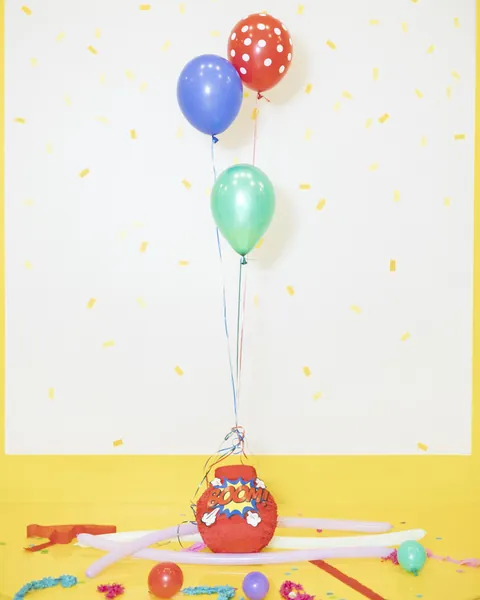
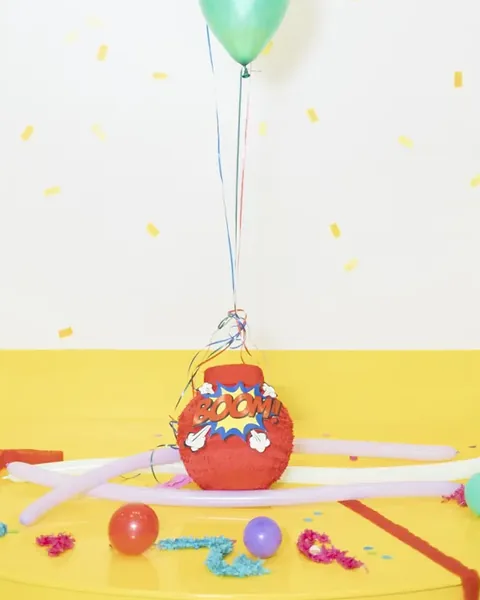
feat: polish portfolio covers and lightbox
- tighter covers for the BOOM and número 1 piñatas so the piñata fills the tile
- lightbox shows the thumb instantly and sharpens when the full photo loads
- soft open animation, slide on next/previous, Home/End keys, larger angle thumbs
- staggered tile reveal, caption highlight on hover/focus, no scrollbar jump

Claude-Session: https://claude.ai/code/session_01P3dCei7Fb7TbLtEwh3wBFV

diff --git a/js/gallery.js b/js/gallery.js
@@ -29,6 +29,7 @@
   const altOf = el => (el.matches('button') ? el.querySelector('img').alt : el.dataset.alt);
 
   let index = 0;
+  let loadToken = 0;
 
   function renderThumbs(s) {
     thumbs.replaceChildren();
@@ -46,8 +47,8 @@
       const im = document.createElement('img');
       im.src = target.el.dataset.thumb;
       im.alt = '';
-      im.width = 44;
-      im.height = 55;
+      im.width = 52;
+      im.height = 65;
       b.appendChild(im);
       b.addEventListener('click', () => show(s.first + i));
       li.appendChild(b);
@@ -56,13 +57,32 @@
     thumbs.setAttribute('aria-label', t('lightbox.group'));
   }
 
-  function show(i) {
+  // dir: 1 = next, -1 = previous, 0 = no slide (opening, thumb click, language change)
+  function show(i, dir = 0) {
     index = (i + slides.length) % slides.length;
     const s = slides[index];
-    img.src = s.el.dataset.full;
+    const token = ++loadToken;
+    const full = s.el.dataset.full;
     img.width = s.el.dataset.fullW;
     img.height = s.el.dataset.fullH;
     img.alt = altOf(s.el);
+    if (img.getAttribute('src') !== full) {
+      // show the (already small) thumb at once, swap in the full photo when it is ready
+      img.classList.add('is-loading');
+      img.src = s.el.dataset.thumb;
+      const big = new Image();
+      big.onload = big.onerror = () => {
+        if (token !== loadToken) return; // the user already moved on
+        img.src = full;
+        img.classList.remove('is-loading');
+      };
+      big.src = full;
+    }
+    img.classList.remove('slide-next', 'slide-prev');
+    if (dir) {
+      void img.offsetWidth; // restart the animation
+      img.classList.add(dir > 0 ? 'slide-next' : 'slide-prev');
+    }
     title.textContent = s.work.querySelector('figcaption').textContent;
     count.textContent = s.size > 1 ? `${s.pos + 1} / ${s.size}` : '';
     renderThumbs(s);
@@ -78,15 +98,19 @@
     document.dispatchEvent(new CustomEvent('pinata:toplayer', { detail: { host: dialog } }));
   }
 
-  works.forEach(work => work.querySelector('.work__open').addEventListener('click', () => open(firstOf.get(work))));
+  works.forEach(work => {
+    const btn = work.querySelector('.work__open');
+    btn.setAttribute('aria-haspopup', 'dialog');
+    btn.addEventListener('click', () => open(firstOf.get(work)));
+  });
   dialog.addEventListener('close', () => {
     root.classList.remove('lightbox-open');
     document.dispatchEvent(new CustomEvent('pinata:toplayer', { detail: { host: null } }));
   });
 
   dialog.querySelector('.lightbox__close').addEventListener('click', () => dialog.close());
-  dialog.querySelector('.lightbox__prev').addEventListener('click', () => show(index - 1));
-  dialog.querySelector('.lightbox__next').addEventListener('click', () => show(index + 1));
+  dialog.querySelector('.lightbox__prev').addEventListener('click', () => show(index - 1, -1));
+  dialog.querySelector('.lightbox__next').addEventListener('click', () => show(index + 1, 1));
 
   // click on the dark backdrop (outside the photo and buttons) closes
   dialog.addEventListener('click', e => {
@@ -95,8 +119,10 @@
   });
 
   dialog.addEventListener('keydown', e => {
-    if (e.key === 'ArrowLeft') { e.preventDefault(); show(index - 1); }
-    if (e.key === 'ArrowRight') { e.preventDefault(); show(index + 1); }
+    if (e.key === 'ArrowLeft') { e.preventDefault(); show(index - 1, -1); }
+    if (e.key === 'ArrowRight') { e.preventDefault(); show(index + 1, 1); }
+    if (e.key === 'Home') { e.preventDefault(); show(0); }
+    if (e.key === 'End') { e.preventDefault(); show(slides.length - 1); }
   });
 
   // horizontal swipe on touch screens
@@ -110,7 +136,7 @@
     if (Math.abs(dx) > 50) {
       swiped = true; // the click that follows a swipe must not close the backdrop
       setTimeout(() => { swiped = false; }, 0);
-      show(index + (dx < 0 ? 1 : -1));
+      show(index + (dx < 0 ? 1 : -1), dx < 0 ? 1 : -1);
     }
   });
   dialog.addEventListener('pointercancel', () => { startX = null; });
@@ -125,6 +151,6 @@
       if (en.isIntersecting) { en.target.classList.add('is-visible'); io.unobserve(en.target); }
     }), { rootMargin: '0px 0px -8% 0px' });
     grid.classList.add('reveal-ready');
-    works.forEach(w => io.observe(w));
+    works.forEach((w, n) => { w.style.setProperty('--stagger', `${(n % 4) * 70}ms`); io.observe(w); });
   }
 })();

diff --git a/css/portfolio.css b/css/portfolio.css
@@ -91,11 +91,14 @@
   font-weight: 300;
   font-size: 20px;
   color: var(--muted);
+  transition: color 0.15s ease;
 }
+.work:has(.work__open:hover) figcaption,
+.work:has(.work__open:focus-visible) figcaption { color: var(--ink); }
 
 /* gentle reveal while scrolling (class added by gallery.js) */
 .reveal-ready .work {
-  transition: opacity 0.6s ease, transform 0.6s cubic-bezier(0.2, 0.6, 0.2, 1);
+  transition: opacity 0.6s ease var(--stagger, 0ms), transform 0.6s cubic-bezier(0.2, 0.6, 0.2, 1) var(--stagger, 0ms);
 }
 .reveal-ready .work:not(.is-visible) { opacity: 0; transform: translateY(18px); }
 
@@ -116,7 +119,8 @@
 
 /* ---------- Lightbox ---------- */
 
-html.lightbox-open { overflow: hidden; }
+/* scrollbar-gutter keeps the page from jumping sideways when the scrollbar goes away */
+html.lightbox-open { overflow: hidden; scrollbar-gutter: stable; }
 
 .lightbox {
   width: 100vw;
@@ -132,6 +136,12 @@ html.lightbox-open { overflow: hidden; }
 }
 .lightbox:not([open]) { display: none; }
 .lightbox::backdrop { background: rgba(10, 10, 11, 0.95); }
+
+/* soft open: backdrop fades in, photo rises a few pixels */
+.lightbox[open] { animation: lb-in 0.28s cubic-bezier(0.2, 0.6, 0.2, 1); }
+.lightbox[open]::backdrop { animation: lb-fade 0.28s ease; }
+@keyframes lb-in { from { opacity: 0; transform: translateY(10px); } }
+@keyframes lb-fade { from { opacity: 0; } }
 
 .lightbox__figure {
   position: absolute;
@@ -155,7 +165,15 @@ html.lightbox-open { overflow: hidden; }
   object-fit: contain;
   border-radius: 4px;
   background: var(--bg);
+  transition: filter 0.3s ease;
 }
+/* the small thumb shows right away, soft, until the full photo has loaded */
+.lightbox__img.is-loading { filter: blur(6px); }
+/* arrows slide the next photo in from the side it came from */
+.lightbox__img.slide-next { animation: lb-slide-next 0.28s cubic-bezier(0.2, 0.6, 0.2, 1); }
+.lightbox__img.slide-prev { animation: lb-slide-prev 0.28s cubic-bezier(0.2, 0.6, 0.2, 1); }
+@keyframes lb-slide-next { from { opacity: 0; transform: translateX(28px); } }
+@keyframes lb-slide-prev { from { opacity: 0; transform: translateX(-28px); } }
 .lightbox__caption {
   display: flex;
   align-items: baseline;
@@ -200,11 +218,11 @@ html.lightbox-open { overflow: hidden; }
   transition: opacity 0.15s ease, border-color 0.15s ease;
 }
 .lightbox__thumb { background: rgba(244, 241, 234, 0.08); }
-.lightbox__thumb img { width: 44px; height: 55px; object-fit: cover; }
+.lightbox__thumb img { display: block; width: 52px; height: 65px; object-fit: cover; }
 .lightbox__thumb:hover { opacity: 1; }
 .lightbox__thumb[aria-current="true"] { opacity: 1; border-color: #f4f1ea; }
 .lightbox__thumb:focus-visible { outline: 2px solid #f4f1ea; outline-offset: 2px; }
-.lightbox__figure.has-thumbs .lightbox__img { max-height: calc(100% - 120px); }
+.lightbox__figure.has-thumbs .lightbox__img { max-height: calc(100% - 132px); }
 
 .lightbox__btn {
   position: absolute;
@@ -239,6 +257,10 @@ html.lightbox-open { overflow: hidden; }
 }
 
 @media (prefers-reduced-motion: reduce) {
+  .lightbox[open], .lightbox[open]::backdrop,
+  .lightbox__img.slide-next, .lightbox__img.slide-prev { animation: none; }
+  .lightbox__img { transition: none; }
+  .lightbox__img.is-loading { filter: none; }
   .work__open, .work__open img { transition: none; }
   .work__open:hover, .work__open:hover img { transform: none; }
 }

diff --git a/portafolio.html b/portafolio.html
@@ -78,7 +78,7 @@
           </figure>
           <figure class="work">
             <button class="work__open" type="button" data-full="img/portfolio/boom-full.webp" data-full-w="800" data-full-h="1200" data-thumb="img/portfolio/boom-480.webp">
-              <img src="img/portfolio/boom-480.webp" srcset="img/portfolio/boom-480.webp 480w, img/portfolio/boom-800.webp 800w" sizes="(min-width: 1000px) 276px, (min-width: 640px) 45vw, 45vw" width="480" height="600" loading="lazy" decoding="async" alt="Piñata roja de superhéroe con un cartel «¡BOOM!», sobre el suelo de un estudio amarillo, bajo tres globos azul, rojo con lunares y verde." data-i18n-attr="alt:portfolio.boom.1.alt" />
+              <img src="img/portfolio/boom-480.webp" srcset="img/portfolio/boom-480.webp 480w, img/portfolio/boom-560.webp 560w" sizes="(min-width: 1000px) 276px, (min-width: 640px) 45vw, 45vw" width="480" height="600" loading="lazy" decoding="async" alt="Piñata roja de superhéroe con un cartel «¡BOOM!», sobre el suelo de un estudio amarillo, bajo tres globos azul, rojo con lunares y verde." data-i18n-attr="alt:portfolio.boom.1.alt" />
             </button>
             <figcaption data-i18n="portfolio.boom.title">Superhéroe ¡BOOM!</figcaption>
           </figure>
@@ -114,7 +114,7 @@
           </figure>
           <figure class="work">
             <button class="work__open" type="button" data-full="img/portfolio/uno-full.webp" data-full-w="828" data-full-h="1600" data-thumb="img/portfolio/uno-480.webp">
-              <img src="img/portfolio/uno-480.webp" srcset="img/portfolio/uno-480.webp 480w, img/portfolio/uno-828.webp 828w" sizes="(min-width: 1000px) 276px, (min-width: 640px) 45vw, 45vw" width="480" height="600" loading="lazy" decoding="async" alt="Piñata roja con forma del número 1, con una flor blanca y hojas verdes, en una fiesta con globos rojos, banderines y un fondo rosa y amarillo." data-i18n-attr="alt:portfolio.uno.1.alt" />
+              <img src="img/portfolio/uno-480.webp" srcset="img/portfolio/uno-480.webp 480w, img/portfolio/uno-700.webp 700w" sizes="(min-width: 1000px) 276px, (min-width: 640px) 45vw, 45vw" width="480" height="600" loading="lazy" decoding="async" alt="Piñata roja con forma del número 1, con una flor blanca y hojas verdes, en una fiesta con globos rojos, banderines y un fondo rosa y amarillo." data-i18n-attr="alt:portfolio.uno.1.alt" />
             </button>
             <figcaption data-i18n="portfolio.uno.title">Número 1</figcaption>
           </figure>
